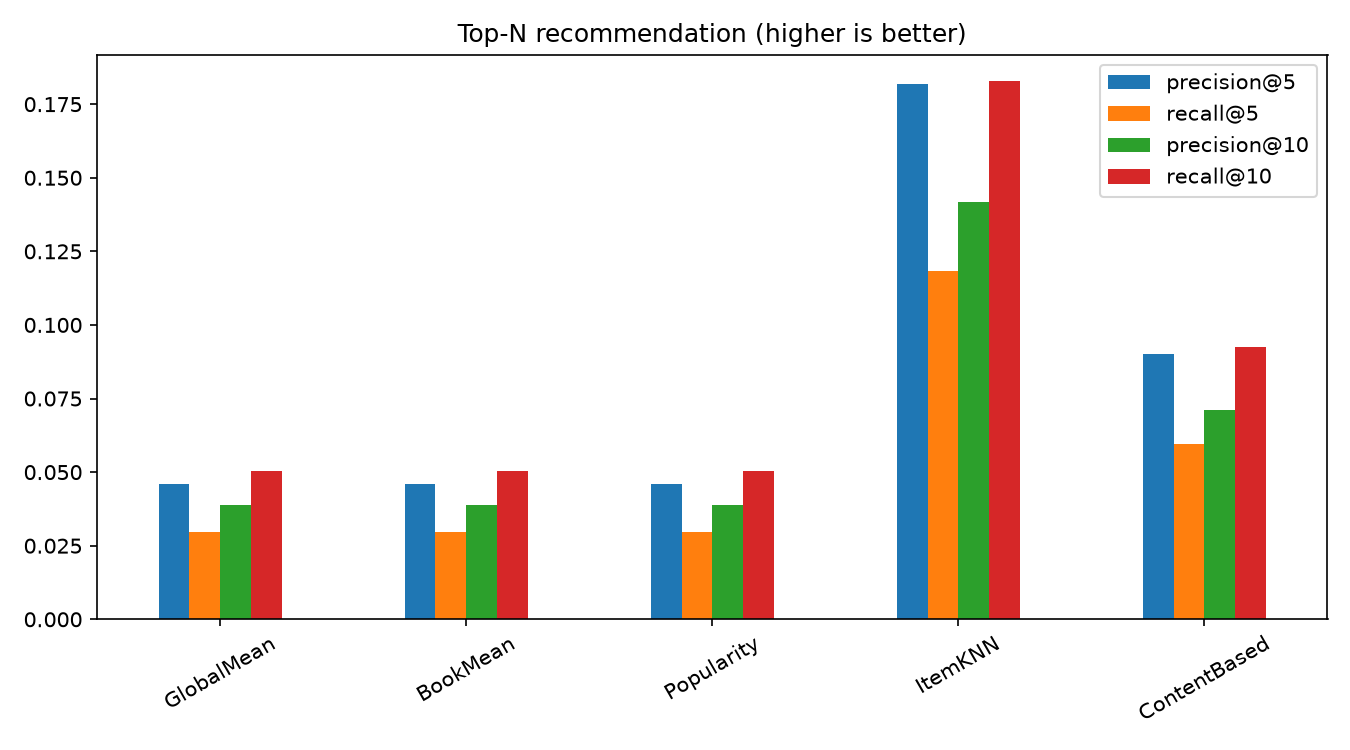
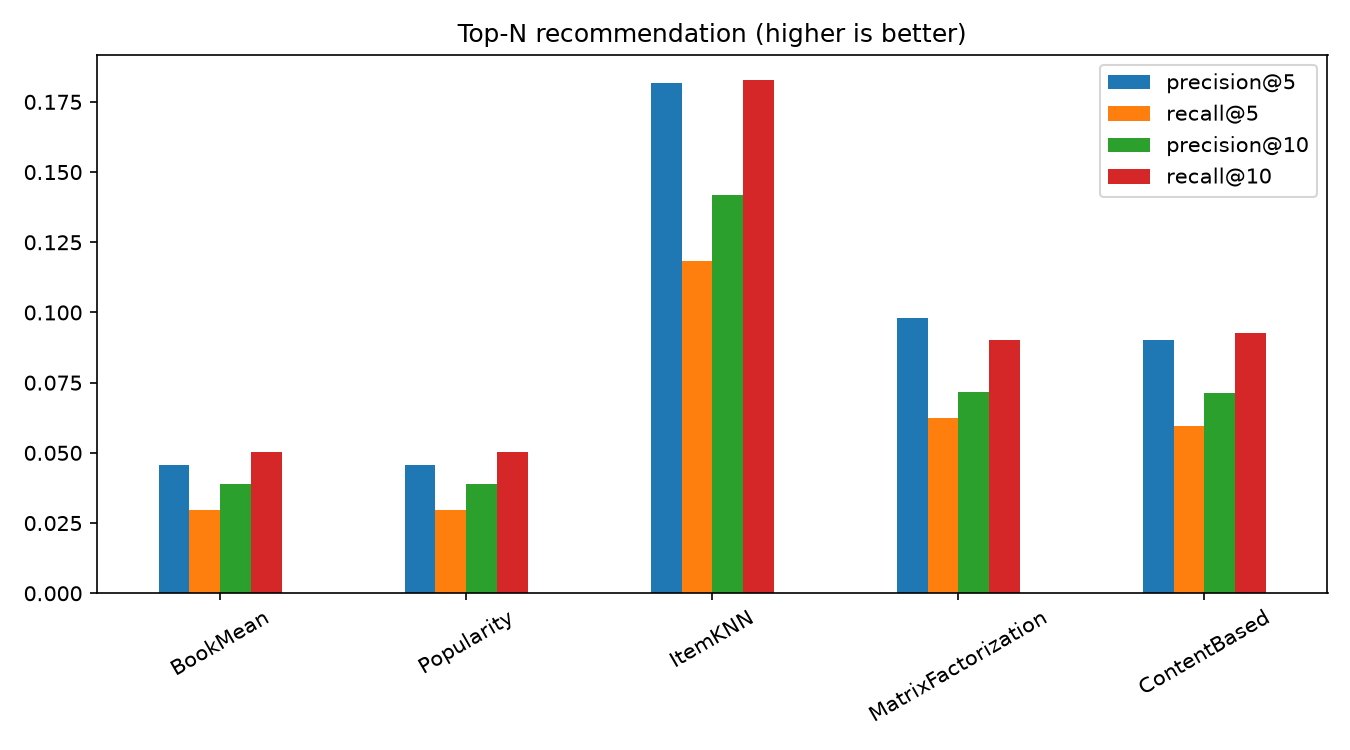
Delete GlobalMean

diff --git a/src/run_eval.py b/src/run_eval.py
@@ -27,14 +27,14 @@ def model_factories(books, knn_k=40, knn_similarity="pearson"):
 
     def mf():
         from .models.mf import MatrixFactorization
-        return MatrixFactorization(n_factors=100, reg=0.02) # 튜닝 결과 (results/mf_tuning.csv)
+        return MatrixFactorization(n_factors=100, reg=0.02)
 
     def content():
         from .models.content import ContentBased
         return ContentBased(books)
 
     return {
-        "GlobalMean": GlobalMean,
+        
         "BookMean": BookMean,
         "Popularity": Popularity,
         "ItemKNN": knn,
